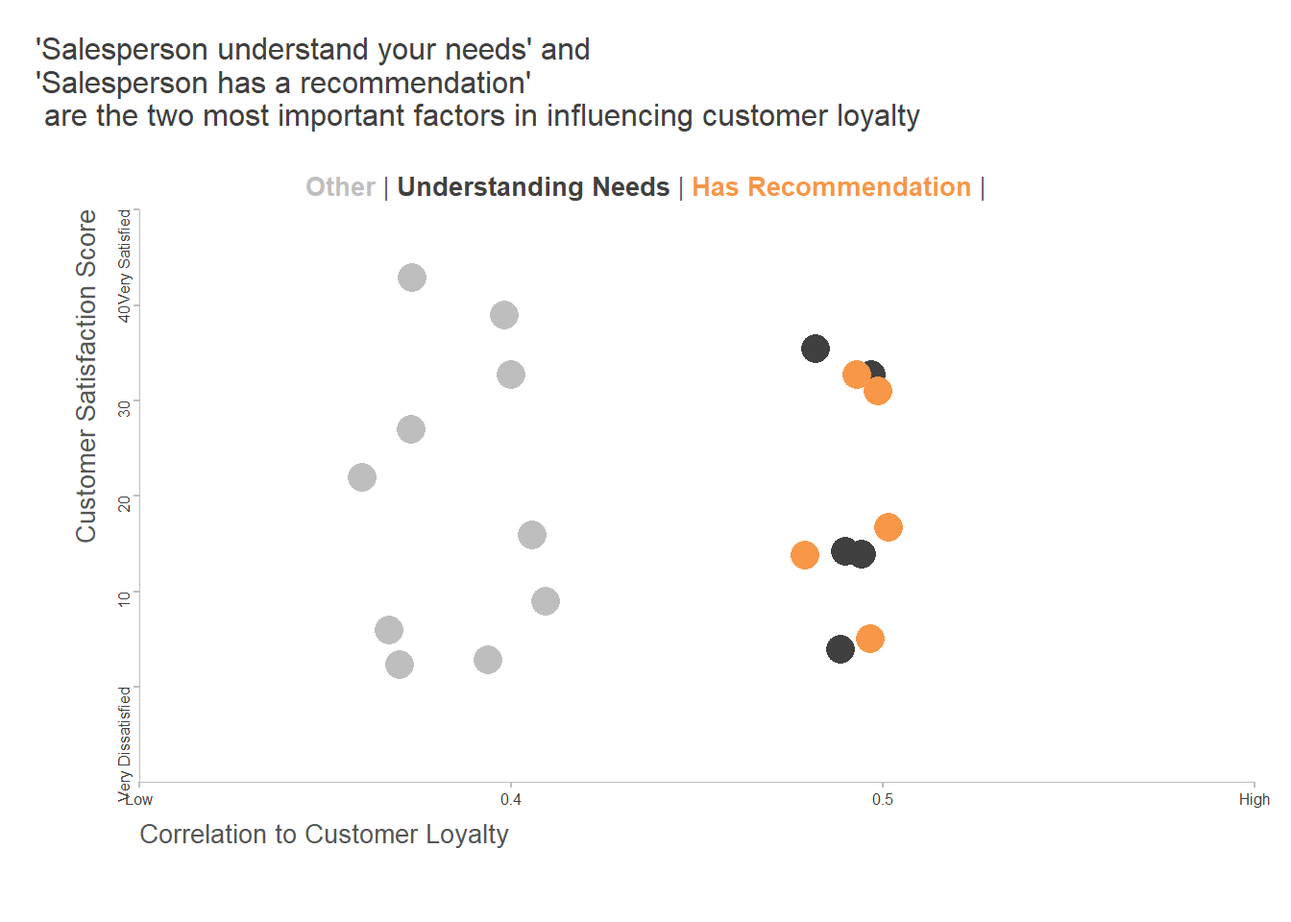
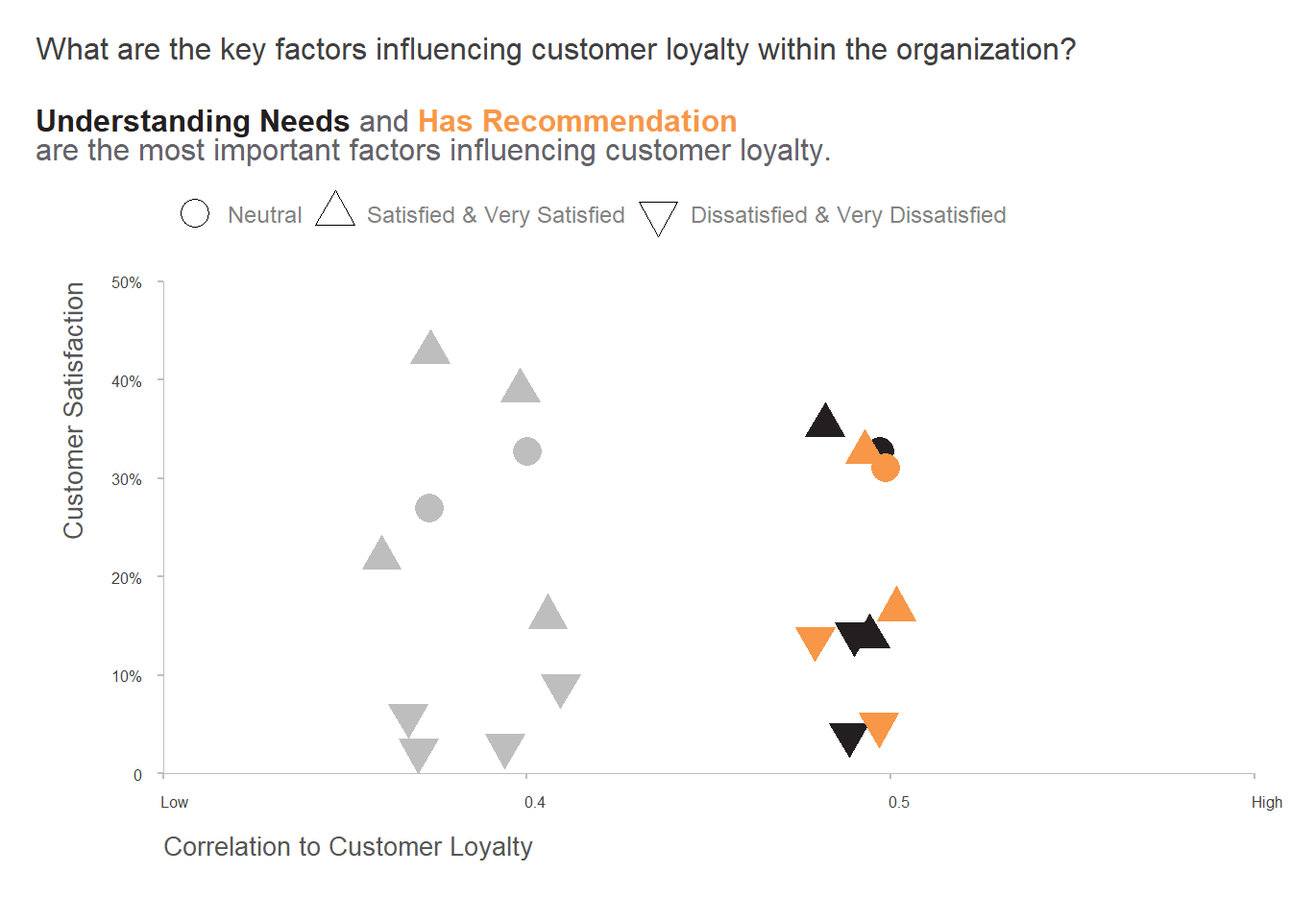
update content

diff --git a/docs/posts/2024-01-15-key-driver-analysis/index.html b/docs/posts/2024-01-15-key-driver-analysis/index.html
@@ -226,7 +226,7 @@ pre > code.sourceCode > span > a:first-child::before { text-decoration: underlin
   <li><a href="#percentage-of-responses-in-the-customer-survey-data" id="toc-percentage-of-responses-in-the-customer-survey-data" class="nav-link" data-scroll-target="#percentage-of-responses-in-the-customer-survey-data">Percentage of Responses in the Customer Survey Data</a></li>
   <li><a href="#correlation" id="toc-correlation" class="nav-link" data-scroll-target="#correlation">Correlation</a></li>
   <li><a href="#consolidating-the-percentage-and-correlation" id="toc-consolidating-the-percentage-and-correlation" class="nav-link" data-scroll-target="#consolidating-the-percentage-and-correlation">Consolidating the Percentage and Correlation</a></li>
-  <li><a href="#key-driver-analysis-output" id="toc-key-driver-analysis-output" class="nav-link" data-scroll-target="#key-driver-analysis-output">Key Driver Analysis Output</a></li>
+  <li><a href="#key-driver-analysis-findings" id="toc-key-driver-analysis-findings" class="nav-link" data-scroll-target="#key-driver-analysis-findings">Key Driver Analysis Findings</a></li>
   </ul></li>
   <li><a href="#recommendation" id="toc-recommendation" class="nav-link" data-scroll-target="#recommendation">Recommendation</a></li>
   <li><a href="#summary" id="toc-summary" class="nav-link" data-scroll-target="#summary">Summary</a></li>
@@ -578,10 +578,10 @@ For each variable, there are missing values (NAs).</p>
 <div id="tabset-3-1" class="tab-pane active" role="tabpanel" aria-labelledby="tabset-3-1-tab">
 <table class="table">
 <colgroup>
-<col style="width: 14%">
-<col style="width: 55%">
-<col style="width: 14%">
-<col style="width: 14%">
+<col style="width: 18%">
+<col style="width: 45%">
+<col style="width: 18%">
+<col style="width: 18%">
 </colgroup>
 <thead>
 <tr class="header">
@@ -647,8 +647,8 @@ For each variable, there are missing values (NAs).</p>
 <table class="table">
 <colgroup>
 <col style="width: 30%">
-<col style="width: 46%">
-<col style="width: 23%">
+<col style="width: 45%">
+<col style="width: 24%">
 </colgroup>
 <thead>
 <tr class="header">
@@ -1387,8 +1387,8 @@ For each variable, there are missing values (NAs).</p>
 </div>
 </div>
 </section>
-<section id="key-driver-analysis-output" class="level2">
-<h2 class="anchored" data-anchor-id="key-driver-analysis-output">Key Driver Analysis Output</h2>
+<section id="key-driver-analysis-findings" class="level2">
+<h2 class="anchored" data-anchor-id="key-driver-analysis-findings">Key Driver Analysis Findings</h2>
 <div class="cell">
 <details class="code-fold">
 <summary>Code</summary>
@@ -1400,55 +1400,59 @@ For each variable, there are missing values (NAs).</p>
 <span id="cb14-6"><a href="#cb14-6" aria-hidden="true" tabindex="-1"></a>  </span>
 <span id="cb14-7"><a href="#cb14-7" aria-hidden="true" tabindex="-1"></a>avg_cor <span class="ot">&lt;-</span> <span class="fu">mean</span>(kda_quadrant<span class="sc">$</span>cor_to_cust_loyalty)</span>
 <span id="cb14-8"><a href="#cb14-8" aria-hidden="true" tabindex="-1"></a>avg_score <span class="ot">&lt;-</span> <span class="fu">mean</span>(kda_quadrant<span class="sc">$</span>score)</span>
-<span id="cb14-9"><a href="#cb14-9" aria-hidden="true" tabindex="-1"></a> </span>
-<span id="cb14-10"><a href="#cb14-10" aria-hidden="true" tabindex="-1"></a> kda_quadrant <span class="ot">&lt;-</span> kda_quadrant <span class="sc">|&gt;</span></span>
-<span id="cb14-11"><a href="#cb14-11" aria-hidden="true" tabindex="-1"></a>   <span class="fu">mutate</span>(<span class="at">color =</span> <span class="fu">case_when</span>(cor_to_cust_loyalty <span class="sc">&gt;</span>avg_cor <span class="sc">&amp;</span> score <span class="sc">&lt;</span> avg_score <span class="sc">&amp;</span> survey_quest <span class="sc">==</span> <span class="st">"The salesperson understanding your needs"</span> <span class="sc">~</span> <span class="st">"Understanding Needs"</span>,</span>
-<span id="cb14-12"><a href="#cb14-12" aria-hidden="true" tabindex="-1"></a>                            cor_to_cust_loyalty <span class="sc">&gt;</span>avg_cor <span class="sc">&amp;</span> score <span class="sc">&lt;</span> avg_score <span class="sc">&amp;</span> survey_quest <span class="sc">==</span> <span class="st">"The salesperson has a recommendation"</span>  <span class="sc">~</span> <span class="st">"Has Recommendation"</span>,</span>
-<span id="cb14-13"><a href="#cb14-13" aria-hidden="true" tabindex="-1"></a>                            cor_to_cust_loyalty <span class="sc">&gt;</span>avg_cor <span class="sc">&amp;</span> score <span class="sc">&gt;</span> avg_score <span class="sc">&amp;</span> survey_quest <span class="sc">==</span> <span class="st">"The salesperson has a recommendation"</span> <span class="sc">~</span> <span class="st">"Has Recommendation"</span>,</span>
-<span id="cb14-14"><a href="#cb14-14" aria-hidden="true" tabindex="-1"></a>                             cor_to_cust_loyalty <span class="sc">&gt;</span>avg_cor <span class="sc">&amp;</span> score <span class="sc">&gt;</span> avg_score <span class="sc">&amp;</span> survey_quest <span class="sc">==</span> <span class="st">"The salesperson understanding your needs"</span> <span class="sc">~</span> <span class="st">"Understanding Needs"</span>,</span>
-<span id="cb14-15"><a href="#cb14-15" aria-hidden="true" tabindex="-1"></a>                            <span class="cn">TRUE</span> <span class="sc">~</span> <span class="st">"Other"</span>))</span>
-<span id="cb14-16"><a href="#cb14-16" aria-hidden="true" tabindex="-1"></a> </span>
-<span id="cb14-17"><a href="#cb14-17" aria-hidden="true" tabindex="-1"></a> </span>
-<span id="cb14-18"><a href="#cb14-18" aria-hidden="true" tabindex="-1"></a> category <span class="ot">=</span> <span class="fu">c</span>(<span class="st">"Understanding Needs"</span> <span class="ot">=</span> <span class="st">"#414040"</span>,</span>
-<span id="cb14-19"><a href="#cb14-19" aria-hidden="true" tabindex="-1"></a>              <span class="st">"Has Recommendation"</span> <span class="ot">=</span> <span class="st">"#F79747"</span>,</span>
-<span id="cb14-20"><a href="#cb14-20" aria-hidden="true" tabindex="-1"></a>              <span class="st">"Other"</span> <span class="ot">=</span> <span class="st">"#BFBEBE"</span>)</span>
-<span id="cb14-21"><a href="#cb14-21" aria-hidden="true" tabindex="-1"></a> </span>
-<span id="cb14-22"><a href="#cb14-22" aria-hidden="true" tabindex="-1"></a></span>
-<span id="cb14-23"><a href="#cb14-23" aria-hidden="true" tabindex="-1"></a>  formatted_subtitle <span class="ot">&lt;-</span> <span class="fu">paste0</span>(</span>
-<span id="cb14-24"><a href="#cb14-24" aria-hidden="true" tabindex="-1"></a>  <span class="st">"&lt;span style='color:"</span>, category[<span class="dv">3</span>], <span class="st">"'&gt;**"</span>, <span class="fu">names</span>(category)[<span class="dv">3</span>], <span class="st">"**&lt;/span&gt;"</span>,</span>
-<span id="cb14-25"><a href="#cb14-25" aria-hidden="true" tabindex="-1"></a>  <span class="st">" | "</span>,</span>
-<span id="cb14-26"><a href="#cb14-26" aria-hidden="true" tabindex="-1"></a>  <span class="st">"&lt;span style='color:"</span>, category[<span class="dv">1</span>], <span class="st">"'&gt;**"</span>, <span class="fu">names</span>(category)[<span class="dv">1</span>], <span class="st">"**&lt;/span&gt;"</span>,</span>
-<span id="cb14-27"><a href="#cb14-27" aria-hidden="true" tabindex="-1"></a>  <span class="st">" | "</span>,</span>
-<span id="cb14-28"><a href="#cb14-28" aria-hidden="true" tabindex="-1"></a>  <span class="st">"&lt;span style='color:"</span>, category[<span class="dv">2</span>], <span class="st">"'&gt;**"</span>, <span class="fu">names</span>(category)[<span class="dv">2</span>], <span class="st">"**&lt;/span&gt;"</span>,</span>
-<span id="cb14-29"><a href="#cb14-29" aria-hidden="true" tabindex="-1"></a>  <span class="st">" | "</span>)</span>
-<span id="cb14-30"><a href="#cb14-30" aria-hidden="true" tabindex="-1"></a> </span>
+<span id="cb14-9"><a href="#cb14-9" aria-hidden="true" tabindex="-1"></a></span>
+<span id="cb14-10"><a href="#cb14-10" aria-hidden="true" tabindex="-1"></a></span>
+<span id="cb14-11"><a href="#cb14-11" aria-hidden="true" tabindex="-1"></a> </span>
+<span id="cb14-12"><a href="#cb14-12" aria-hidden="true" tabindex="-1"></a> kda_quadrant <span class="ot">&lt;-</span> kda_quadrant <span class="sc">|&gt;</span></span>
+<span id="cb14-13"><a href="#cb14-13" aria-hidden="true" tabindex="-1"></a>   <span class="fu">mutate</span>(<span class="at">color =</span> <span class="fu">case_when</span>(cor_to_cust_loyalty <span class="sc">&gt;</span>avg_cor <span class="sc">&amp;</span> score <span class="sc">&lt;</span> avg_score <span class="sc">&amp;</span> survey_quest <span class="sc">==</span> <span class="st">"The salesperson understanding your needs"</span> <span class="sc">~</span> <span class="st">"Understanding Needs"</span>,</span>
+<span id="cb14-14"><a href="#cb14-14" aria-hidden="true" tabindex="-1"></a>                            cor_to_cust_loyalty <span class="sc">&gt;</span>avg_cor <span class="sc">&amp;</span> score <span class="sc">&lt;</span> avg_score <span class="sc">&amp;</span> survey_quest <span class="sc">==</span> <span class="st">"The salesperson has a recommendation"</span>  <span class="sc">~</span> <span class="st">"Has Recommendation"</span>,</span>
+<span id="cb14-15"><a href="#cb14-15" aria-hidden="true" tabindex="-1"></a>                            cor_to_cust_loyalty <span class="sc">&gt;</span>avg_cor <span class="sc">&amp;</span> score <span class="sc">&gt;</span> avg_score <span class="sc">&amp;</span> survey_quest <span class="sc">==</span> <span class="st">"The salesperson has a recommendation"</span> <span class="sc">~</span> <span class="st">"Has Recommendation"</span>,</span>
+<span id="cb14-16"><a href="#cb14-16" aria-hidden="true" tabindex="-1"></a>                             cor_to_cust_loyalty <span class="sc">&gt;</span>avg_cor <span class="sc">&amp;</span> score <span class="sc">&gt;</span> avg_score <span class="sc">&amp;</span> survey_quest <span class="sc">==</span> <span class="st">"The salesperson understanding your needs"</span> <span class="sc">~</span> <span class="st">"Understanding Needs"</span>,</span>
+<span id="cb14-17"><a href="#cb14-17" aria-hidden="true" tabindex="-1"></a>                            <span class="cn">TRUE</span> <span class="sc">~</span> <span class="st">"Other"</span>),</span>
+<span id="cb14-18"><a href="#cb14-18" aria-hidden="true" tabindex="-1"></a>          <span class="at">shape =</span> <span class="fu">factor</span>(<span class="fu">case_when</span>(satisfaction <span class="sc">%in%</span> <span class="fu">c</span>(<span class="st">"Satisfied"</span>, <span class="st">"Very Satisfied"</span>) <span class="sc">~</span> <span class="dv">24</span>,</span>
+<span id="cb14-19"><a href="#cb14-19" aria-hidden="true" tabindex="-1"></a>                            satisfaction <span class="sc">%in%</span> <span class="fu">c</span>(<span class="st">"Dissatisfied"</span>, <span class="st">"Very Dissatisfied"</span>) <span class="sc">~</span> <span class="dv">25</span>,</span>
+<span id="cb14-20"><a href="#cb14-20" aria-hidden="true" tabindex="-1"></a>                            <span class="cn">TRUE</span> <span class="sc">~</span> <span class="dv">21</span>)),</span>
+<span id="cb14-21"><a href="#cb14-21" aria-hidden="true" tabindex="-1"></a>          <span class="at">fill =</span> <span class="fu">factor</span>(<span class="fu">case_when</span>(color <span class="sc">==</span> <span class="st">"Understanding Needs"</span> <span class="sc">~</span> <span class="st">"#231F20"</span>, </span>
+<span id="cb14-22"><a href="#cb14-22" aria-hidden="true" tabindex="-1"></a>                                  color <span class="sc">==</span> <span class="st">"Has Recommendation"</span> <span class="sc">~</span> <span class="st">"#F79747"</span>,</span>
+<span id="cb14-23"><a href="#cb14-23" aria-hidden="true" tabindex="-1"></a>                                  <span class="cn">TRUE</span> <span class="sc">~</span> <span class="st">"Other"</span> )))</span>
+<span id="cb14-24"><a href="#cb14-24" aria-hidden="true" tabindex="-1"></a> </span>
+<span id="cb14-25"><a href="#cb14-25" aria-hidden="true" tabindex="-1"></a> </span>
+<span id="cb14-26"><a href="#cb14-26" aria-hidden="true" tabindex="-1"></a> </span>
+<span id="cb14-27"><a href="#cb14-27" aria-hidden="true" tabindex="-1"></a> category <span class="ot">=</span> <span class="fu">c</span>(<span class="st">"Understanding Needs"</span> <span class="ot">=</span> <span class="st">"#231F20"</span>,</span>
+<span id="cb14-28"><a href="#cb14-28" aria-hidden="true" tabindex="-1"></a>              <span class="st">"Has Recommendation"</span> <span class="ot">=</span> <span class="st">"#F79747"</span>,</span>
+<span id="cb14-29"><a href="#cb14-29" aria-hidden="true" tabindex="-1"></a>              <span class="st">"Other"</span> <span class="ot">=</span> <span class="st">"#BFBEBE"</span>)</span>
+<span id="cb14-30"><a href="#cb14-30" aria-hidden="true" tabindex="-1"></a></span>
 <span id="cb14-31"><a href="#cb14-31" aria-hidden="true" tabindex="-1"></a> </span>
-<span id="cb14-32"><a href="#cb14-32" aria-hidden="true" tabindex="-1"></a> <span class="fu">set.seed</span>(<span class="dv">123</span>)</span>
-<span id="cb14-33"><a href="#cb14-33" aria-hidden="true" tabindex="-1"></a></span>
-<span id="cb14-34"><a href="#cb14-34" aria-hidden="true" tabindex="-1"></a>kda_quadrant_plot <span class="ot">&lt;-</span> <span class="fu">ggplot</span>(kda_quadrant) <span class="sc">+</span> </span>
-<span id="cb14-35"><a href="#cb14-35" aria-hidden="true" tabindex="-1"></a>  <span class="fu">geom_jitter</span>(<span class="fu">aes</span>(<span class="at">x=</span> cor_to_cust_loyalty,<span class="at">y=</span> score, <span class="at">color =</span> color), <span class="at">size =</span> <span class="dv">5</span>) <span class="sc">+</span></span>
-<span id="cb14-36"><a href="#cb14-36" aria-hidden="true" tabindex="-1"></a>  <span class="fu">scale_color_manual</span>(<span class="at">values =</span> category, <span class="at">guide =</span> <span class="st">"none"</span>) <span class="sc">+</span></span>
-<span id="cb14-37"><a href="#cb14-37" aria-hidden="true" tabindex="-1"></a>  <span class="fu">scale_y_continuous</span>(<span class="at">breaks =</span> <span class="fu">seq</span>(<span class="dv">0</span>,<span class="dv">50</span>, <span class="at">by =</span> <span class="dv">10</span>), <span class="at">limits =</span> <span class="fu">c</span>(<span class="sc">-</span><span class="dv">10</span>, <span class="dv">50</span>),</span>
-<span id="cb14-38"><a href="#cb14-38" aria-hidden="true" tabindex="-1"></a>                     <span class="at">labels =</span> <span class="fu">c</span>(<span class="st">"0"</span> <span class="ot">=</span> <span class="st">"Very Dissatisfied"</span>, <span class="st">"10"</span> <span class="ot">=</span> <span class="st">"10"</span>, <span class="st">"20"</span> <span class="ot">=</span> <span class="st">"20"</span>, <span class="st">"30"</span> <span class="ot">=</span> <span class="st">"30"</span>, <span class="st">"40"</span> <span class="ot">=</span> <span class="st">"40"</span>, <span class="st">"50"</span> <span class="ot">=</span> <span class="st">"Very Satisfied"</span>),</span>
-<span id="cb14-39"><a href="#cb14-39" aria-hidden="true" tabindex="-1"></a>                     <span class="at">expand =</span> <span class="fu">c</span>(<span class="dv">0</span>,<span class="dv">0</span>)) <span class="sc">+</span></span>
-<span id="cb14-40"><a href="#cb14-40" aria-hidden="true" tabindex="-1"></a>   <span class="fu">scale_x_continuous</span>(<span class="at">breaks =</span> <span class="fu">seq</span>(<span class="fl">0.3</span>,<span class="fl">0.6</span>, <span class="at">by =</span> <span class="fl">0.1</span>), <span class="at">limits =</span> <span class="fu">c</span>(<span class="fl">0.3</span>,<span class="fl">0.6</span>),</span>
-<span id="cb14-41"><a href="#cb14-41" aria-hidden="true" tabindex="-1"></a>                      <span class="at">labels =</span> <span class="fu">c</span>(<span class="st">"0.3"</span> <span class="ot">=</span> <span class="st">"Low"</span>, <span class="st">"0.4"</span> <span class="ot">=</span> <span class="st">"0.4"</span>, <span class="st">"0.5"</span> <span class="ot">=</span> <span class="st">"0.5"</span>, <span class="st">"0.6"</span> <span class="ot">=</span> <span class="st">"High"</span>),</span>
-<span id="cb14-42"><a href="#cb14-42" aria-hidden="true" tabindex="-1"></a>                      <span class="at">expand =</span> <span class="fu">c</span>(<span class="dv">0</span>,<span class="dv">0</span>))<span class="sc">+</span></span>
-<span id="cb14-43"><a href="#cb14-43" aria-hidden="true" tabindex="-1"></a>   <span class="fu">labs</span>(<span class="at">title =</span> <span class="st">"'Salesperson understand your needs' and </span><span class="sc">\n</span><span class="st">'Salesperson has a recommendation' </span><span class="sc">\n</span><span class="st"> are the two most important factors in influencing customer loyalty </span><span class="sc">\n</span><span class="st">"</span>,</span>
-<span id="cb14-44"><a href="#cb14-44" aria-hidden="true" tabindex="-1"></a>        <span class="at">subtitle =</span> formatted_subtitle,</span>
-<span id="cb14-45"><a href="#cb14-45" aria-hidden="true" tabindex="-1"></a>        <span class="at">x =</span> <span class="st">"Correlation to Customer Loyalty"</span>,</span>
-<span id="cb14-46"><a href="#cb14-46" aria-hidden="true" tabindex="-1"></a>        <span class="at">y =</span> <span class="st">"Customer Satisfaction Score"</span>,</span>
-<span id="cb14-47"><a href="#cb14-47" aria-hidden="true" tabindex="-1"></a>        <span class="at">color =</span> <span class="st">"Category"</span>) <span class="sc">+</span></span>
-<span id="cb14-48"><a href="#cb14-48" aria-hidden="true" tabindex="-1"></a>    <span class="fu">theme</span>(<span class="at">axis.text.y =</span> <span class="fu">element_text</span>(<span class="at">angle =</span> <span class="dv">90</span>, <span class="at">size =</span> <span class="dv">6</span>, <span class="at">color =</span> GRAY2),</span>
-<span id="cb14-49"><a href="#cb14-49" aria-hidden="true" tabindex="-1"></a>          <span class="at">axis.text.x =</span> <span class="fu">element_text</span>(<span class="at">size =</span> <span class="dv">6</span>, <span class="at">color =</span> GRAY2),</span>
-<span id="cb14-50"><a href="#cb14-50" aria-hidden="true" tabindex="-1"></a>          <span class="at">axis.title.y =</span> <span class="fu">element_text</span>(<span class="at">hjust =</span> <span class="dv">1</span>, <span class="at">size =</span> <span class="dv">10</span>),</span>
-<span id="cb14-51"><a href="#cb14-51" aria-hidden="true" tabindex="-1"></a>          <span class="at">axis.title.x =</span> <span class="fu">element_text</span>(<span class="at">hjust =</span> <span class="dv">0</span>, <span class="at">size =</span> <span class="dv">10</span>),</span>
-<span id="cb14-52"><a href="#cb14-52" aria-hidden="true" tabindex="-1"></a>          <span class="at">plot.subtitle =</span> <span class="fu">element_markdown</span>(<span class="at">hjust =</span> <span class="fl">0.5</span>))</span>
-<span id="cb14-53"><a href="#cb14-53" aria-hidden="true" tabindex="-1"></a></span>
-<span id="cb14-54"><a href="#cb14-54" aria-hidden="true" tabindex="-1"></a>   </span>
-<span id="cb14-55"><a href="#cb14-55" aria-hidden="true" tabindex="-1"></a></span>
-<span id="cb14-56"><a href="#cb14-56" aria-hidden="true" tabindex="-1"></a> kda_quadrant_plot <span class="sc">|&gt;</span></span>
-<span id="cb14-57"><a href="#cb14-57" aria-hidden="true" tabindex="-1"></a>  <span class="fu">save_and_show_plot</span>(<span class="at">width =</span> <span class="fl">6.5</span>, <span class="at">height =</span> <span class="dv">4</span>, <span class="st">"FIG03.png"</span>)</span></code><button title="Copy to Clipboard" class="code-copy-button"><i class="bi"></i></button></pre></div>
+<span id="cb14-32"><a href="#cb14-32" aria-hidden="true" tabindex="-1"></a> </span>
+<span id="cb14-33"><a href="#cb14-33" aria-hidden="true" tabindex="-1"></a> <span class="fu">set.seed</span>(<span class="dv">123</span>)</span>
+<span id="cb14-34"><a href="#cb14-34" aria-hidden="true" tabindex="-1"></a></span>
+<span id="cb14-35"><a href="#cb14-35" aria-hidden="true" tabindex="-1"></a> </span>
+<span id="cb14-36"><a href="#cb14-36" aria-hidden="true" tabindex="-1"></a>kda_quadrant_plot <span class="ot">&lt;-</span> <span class="fu">ggplot</span>(kda_quadrant) <span class="sc">+</span> </span>
+<span id="cb14-37"><a href="#cb14-37" aria-hidden="true" tabindex="-1"></a>  <span class="fu">geom_jitter</span>(<span class="fu">aes</span>(<span class="at">x=</span> cor_to_cust_loyalty,<span class="at">y=</span> score, <span class="at">color =</span> color, <span class="at">shape =</span> shape, <span class="at">fill =</span> fill), <span class="at">size =</span> <span class="dv">5</span>) <span class="sc">+</span></span>
+<span id="cb14-38"><a href="#cb14-38" aria-hidden="true" tabindex="-1"></a>  <span class="fu">scale_color_manual</span>(<span class="at">values =</span> category, <span class="at">guide =</span> <span class="st">"none"</span>) <span class="sc">+</span></span>
+<span id="cb14-39"><a href="#cb14-39" aria-hidden="true" tabindex="-1"></a>  <span class="fu">scale_shape_manual</span>(<span class="at">values =</span> <span class="fu">c</span>(<span class="dv">21</span>, <span class="dv">24</span>,<span class="dv">25</span>), <span class="at">labels =</span> <span class="fu">c</span>(<span class="st">"Neutral"</span>, <span class="st">"Satisfied &amp; Very Satisfied"</span>, <span class="st">"Dissatisfied &amp; Very Dissatisfied"</span>))<span class="sc">+</span></span>
+<span id="cb14-40"><a href="#cb14-40" aria-hidden="true" tabindex="-1"></a>  <span class="fu">scale_fill_manual</span>(<span class="at">values =</span> <span class="fu">c</span>(<span class="st">"#231F20"</span>, <span class="st">"#F79747"</span>,<span class="st">"#BFBEBE"</span> ), <span class="at">guide =</span> <span class="st">"none"</span>) <span class="sc">+</span></span>
+<span id="cb14-41"><a href="#cb14-41" aria-hidden="true" tabindex="-1"></a>  <span class="fu">scale_y_continuous</span>(<span class="at">breaks =</span> <span class="fu">seq</span>(<span class="dv">0</span>,<span class="dv">50</span>, <span class="at">by =</span> <span class="dv">10</span>), <span class="at">limits =</span> <span class="fu">c</span>(<span class="dv">0</span>, <span class="dv">50</span>),</span>
+<span id="cb14-42"><a href="#cb14-42" aria-hidden="true" tabindex="-1"></a>                     <span class="at">labels =</span> <span class="fu">c</span>(<span class="st">"0"</span> <span class="ot">=</span> <span class="st">"0"</span>, <span class="st">"10"</span> <span class="ot">=</span> <span class="st">"10%"</span>, <span class="st">"20"</span> <span class="ot">=</span> <span class="st">"20%"</span>, <span class="st">"30"</span> <span class="ot">=</span> <span class="st">"30%"</span>, <span class="st">"40"</span> <span class="ot">=</span> <span class="st">"40%"</span>, <span class="st">"50"</span> <span class="ot">=</span> <span class="st">"50%"</span> ),</span>
+<span id="cb14-43"><a href="#cb14-43" aria-hidden="true" tabindex="-1"></a>                     <span class="at">expand =</span> <span class="fu">c</span>(<span class="dv">0</span>,<span class="dv">0</span>)) <span class="sc">+</span></span>
+<span id="cb14-44"><a href="#cb14-44" aria-hidden="true" tabindex="-1"></a>   <span class="fu">scale_x_continuous</span>(<span class="at">breaks =</span> <span class="fu">seq</span>(<span class="fl">0.3</span>,<span class="fl">0.6</span>, <span class="at">by =</span> <span class="fl">0.1</span>), <span class="at">limits =</span> <span class="fu">c</span>(<span class="fl">0.3</span>,<span class="fl">0.6</span>),</span>
+<span id="cb14-45"><a href="#cb14-45" aria-hidden="true" tabindex="-1"></a>                      <span class="at">labels =</span> <span class="fu">c</span>(<span class="st">"0.3"</span> <span class="ot">=</span> <span class="st">"Low"</span>, <span class="st">"0.4"</span> <span class="ot">=</span> <span class="st">"0.4"</span>, <span class="st">"0.5"</span> <span class="ot">=</span> <span class="st">"0.5"</span>, <span class="st">"0.6"</span> <span class="ot">=</span> <span class="st">"High"</span>),</span>
+<span id="cb14-46"><a href="#cb14-46" aria-hidden="true" tabindex="-1"></a>                      <span class="at">expand =</span> <span class="fu">c</span>(<span class="dv">0</span>,<span class="dv">0</span>))<span class="sc">+</span></span>
+<span id="cb14-47"><a href="#cb14-47" aria-hidden="true" tabindex="-1"></a>   <span class="fu">labs</span>(<span class="at">title =</span> <span class="st">"What are the key factors influencing customer loyalty within the organization? </span><span class="sc">\n</span><span class="st">"</span>,</span>
+<span id="cb14-48"><a href="#cb14-48" aria-hidden="true" tabindex="-1"></a>        <span class="at">subtitle =</span> glue<span class="sc">::</span><span class="fu">glue</span>(<span class="st">"&lt;span style='color:{category['Understanding Needs']}'&gt;**Understanding Needs**&lt;/span&gt; and &lt;span style='color:{category['Has Recommendation']}'&gt;**Has Recommendation**&lt;/span&gt; &lt;br&gt; are the most important factors influencing customer loyalty."</span>),</span>
+<span id="cb14-49"><a href="#cb14-49" aria-hidden="true" tabindex="-1"></a>        <span class="at">x =</span> <span class="st">"Correlation to Customer Loyalty"</span>,</span>
+<span id="cb14-50"><a href="#cb14-50" aria-hidden="true" tabindex="-1"></a>        <span class="at">y =</span> <span class="st">"Customer Satisfaction"</span>) <span class="sc">+</span></span>
+<span id="cb14-51"><a href="#cb14-51" aria-hidden="true" tabindex="-1"></a>      <span class="fu">theme</span>(<span class="at">plot.subtitle =</span> <span class="fu">element_markdown</span>(<span class="at">size =</span> <span class="dv">12</span>),</span>
+<span id="cb14-52"><a href="#cb14-52" aria-hidden="true" tabindex="-1"></a>            <span class="at">axis.text.y =</span> <span class="fu">element_text</span>(<span class="at">size =</span> <span class="dv">6</span>, <span class="at">color =</span> GRAY2, <span class="at">margin =</span> <span class="fu">margin</span>(<span class="dv">0</span>, <span class="dv">6</span>, <span class="dv">0</span>, <span class="dv">10</span>, <span class="st">"pt"</span>)),</span>
+<span id="cb14-53"><a href="#cb14-53" aria-hidden="true" tabindex="-1"></a>            <span class="at">axis.text.x =</span> <span class="fu">element_text</span>(<span class="at">size =</span> <span class="dv">6</span>, <span class="at">color =</span> GRAY2, <span class="at">margin =</span> <span class="fu">margin</span>(<span class="dv">6</span>, <span class="dv">6</span>, <span class="dv">10</span>, <span class="dv">0</span>, <span class="st">"pt"</span>), <span class="at">hjust =</span> <span class="fl">0.1</span>),</span>
+<span id="cb14-54"><a href="#cb14-54" aria-hidden="true" tabindex="-1"></a>            <span class="at">axis.title.y =</span> <span class="fu">element_text</span>(<span class="at">hjust =</span> <span class="dv">1</span>, <span class="at">size =</span> <span class="dv">10</span>, <span class="at">margin =</span> <span class="fu">margin</span>(<span class="dv">0</span>, <span class="dv">0</span>, <span class="dv">0</span>, <span class="dv">10</span>, <span class="st">"pt"</span>)),</span>
+<span id="cb14-55"><a href="#cb14-55" aria-hidden="true" tabindex="-1"></a>            <span class="at">axis.title.x =</span> <span class="fu">element_text</span>(<span class="at">hjust =</span> <span class="dv">0</span>, <span class="at">size =</span> <span class="dv">10</span>, <span class="at">margin =</span> <span class="fu">margin</span>(<span class="dv">0</span>, <span class="dv">0</span>, <span class="dv">10</span>, <span class="dv">0</span>, <span class="st">"pt"</span>)),</span>
+<span id="cb14-56"><a href="#cb14-56" aria-hidden="true" tabindex="-1"></a>          <span class="at">legend.position =</span> <span class="st">"top"</span>, <span class="at">legend.justification =</span> <span class="st">"left"</span>, <span class="at">legend.title =</span> <span class="fu">element_blank</span>(), <span class="at">legend.margin =</span> <span class="fu">margin</span>(<span class="fu">margin</span>(<span class="dv">6</span>, <span class="dv">6</span>, <span class="dv">10</span>, <span class="dv">0</span>, <span class="st">"pt"</span>)), <span class="at">legend.text =</span> <span class="fu">element_text</span>(<span class="at">size =</span> <span class="dv">9</span>, <span class="at">color =</span> GRAY6 ))</span>
+<span id="cb14-57"><a href="#cb14-57" aria-hidden="true" tabindex="-1"></a>          </span>
+<span id="cb14-58"><a href="#cb14-58" aria-hidden="true" tabindex="-1"></a></span>
+<span id="cb14-59"><a href="#cb14-59" aria-hidden="true" tabindex="-1"></a></span>
+<span id="cb14-60"><a href="#cb14-60" aria-hidden="true" tabindex="-1"></a> kda_quadrant_plot <span class="sc">|&gt;</span></span>
+<span id="cb14-61"><a href="#cb14-61" aria-hidden="true" tabindex="-1"></a>  <span class="fu">save_and_show_plot</span>(<span class="at">width =</span> <span class="fl">6.5</span>, <span class="at">height =</span> <span class="dv">4</span>, <span class="st">"FIG03.png"</span>)</span></code><button title="Copy to Clipboard" class="code-copy-button"><i class="bi"></i></button></pre></div>
 </details>
 <div class="cell-output-display">
 <div>

diff --git a/docs/posts/2023-10-11-summary-statistics-and-t-test/index.html b/docs/posts/2023-10-11-summary-statistics-and-t-test/index.html
@@ -1614,7 +1614,7 @@ Note
 <span id="cb5-9"><a href="#cb5-9" aria-hidden="true" tabindex="-1"></a>  <span class="fu">scale_x_binned</span>(<span class="at">labels =</span> percent_label_1)<span class="sc">+</span></span>
 <span id="cb5-10"><a href="#cb5-10" aria-hidden="true" tabindex="-1"></a>  <span class="fu">theme_minimal</span>(<span class="at">base_size =</span> <span class="dv">12</span>)<span class="sc">+</span></span>
 <span id="cb5-11"><a href="#cb5-11" aria-hidden="true" tabindex="-1"></a>   <span class="fu">theme</span>(<span class="at">legend.position =</span> <span class="st">"none"</span>)<span class="sc">+</span></span>
-<span id="cb5-12"><a href="#cb5-12" aria-hidden="true" tabindex="-1"></a>     <span class="fu">labs</span>(<span class="at">title =</span> <span class="st">"The most frequent values (around 300 of teams) fall into the range </span><span class="sc">\n</span><span class="st">between 0 - 5%. As the level of percentage increase </span><span class="sc">\n</span><span class="st">the frequency decrease."</span>,</span>
+<span id="cb5-12"><a href="#cb5-12" aria-hidden="true" tabindex="-1"></a>     <span class="fu">labs</span>(<span class="at">title =</span> <span class="st">"The most frequent values (around 300 of teams) fall into the range </span><span class="sc">\n</span><span class="st">between 0 - 5%. As the level of percentage increases </span><span class="sc">\n</span><span class="st">the frequency decreases."</span>,</span>
 <span id="cb5-13"><a href="#cb5-13" aria-hidden="true" tabindex="-1"></a>          <span class="at">subtitle =</span> <span class="st">"Distribution of BAME employees"</span>,</span>
 <span id="cb5-14"><a href="#cb5-14" aria-hidden="true" tabindex="-1"></a>          <span class="at">x=</span> <span class="st">"BAME employees"</span>,</span>
 <span id="cb5-15"><a href="#cb5-15" aria-hidden="true" tabindex="-1"></a>          <span class="at">y=</span> <span class="st">"Count"</span>)</span></code><button title="Copy to Clipboard" class="code-copy-button"><i class="bi"></i></button></pre></div>

diff --git a/docs/index.html b/docs/index.html
@@ -227,7 +227,7 @@ ul.task-list li input[type="checkbox"] {
 
 <div class="quarto-listing quarto-listing-container-grid" id="listing-blog">
 <div class="list grid quarto-listing-cols-3">
-<div class="g-col-1" data-index="0" data-categories="key driver analysis,data cleaning,data visualization" data-listing-date-sort="1705269600000" data-listing-file-modified-sort="1705483683898" data-listing-date-modified-sort="NaN" data-listing-reading-time-sort="21" data-listing-word-count-sort="4092">
+<div class="g-col-1" data-index="0" data-categories="key driver analysis,data cleaning,data visualization" data-listing-date-sort="1705269600000" data-listing-file-modified-sort="1705769805478" data-listing-date-modified-sort="NaN" data-listing-reading-time-sort="22" data-listing-word-count-sort="4317">
 <a href="./posts/2024-01-15-key-driver-analysis/index.html" class="quarto-grid-link">
 <div class="quarto-grid-item card h-100 card-left">
 <p class="card-img-top">
@@ -274,7 +274,7 @@ data visualization
 </div>
 </a>
 </div>
-<div class="g-col-1" data-index="2" data-categories="summary statistics,independent samples t-test,quantitative analysis" data-listing-date-sort="1696971600000" data-listing-file-modified-sort="1704441374603" data-listing-date-modified-sort="NaN" data-listing-reading-time-sort="10" data-listing-word-count-sort="1960">
+<div class="g-col-1" data-index="2" data-categories="summary statistics,independent samples t-test,quantitative analysis" data-listing-date-sort="1696971600000" data-listing-file-modified-sort="1705572170662" data-listing-date-modified-sort="NaN" data-listing-reading-time-sort="10" data-listing-word-count-sort="1960">
 <a href="./posts/2023-10-11-summary-statistics-and-t-test/index.html" class="quarto-grid-link">
 <div class="quarto-grid-item card h-100 card-left">
 <p class="card-img-top">

diff --git a/docs/posts.html b/docs/posts.html
@@ -234,7 +234,7 @@ ul.task-list li input[type="checkbox"] {
     </div>
 </div>
 <div class="list grid quarto-listing-cols-3">
-<div class="g-col-1" data-index="0" data-categories="key driver analysis,data cleaning,data visualization" data-listing-date-sort="1705269600000" data-listing-file-modified-sort="1705483683898" data-listing-date-modified-sort="NaN" data-listing-reading-time-sort="21" data-listing-word-count-sort="4092">
+<div class="g-col-1" data-index="0" data-categories="key driver analysis,data cleaning,data visualization" data-listing-date-sort="1705269600000" data-listing-file-modified-sort="1705769805478" data-listing-date-modified-sort="NaN" data-listing-reading-time-sort="22" data-listing-word-count-sort="4317">
 <a href="./posts/2024-01-15-key-driver-analysis/index.html" class="quarto-grid-link">
 <div class="quarto-grid-item card h-100 card-left">
 <p class="card-img-top">
@@ -297,7 +297,7 @@ Dec 5, 2023
 </div>
 </a>
 </div>
-<div class="g-col-1" data-index="2" data-categories="summary statistics,independent samples t-test,quantitative analysis" data-listing-date-sort="1696971600000" data-listing-file-modified-sort="1704441374603" data-listing-date-modified-sort="NaN" data-listing-reading-time-sort="10" data-listing-word-count-sort="1960">
+<div class="g-col-1" data-index="2" data-categories="summary statistics,independent samples t-test,quantitative analysis" data-listing-date-sort="1696971600000" data-listing-file-modified-sort="1705572170662" data-listing-date-modified-sort="NaN" data-listing-reading-time-sort="10" data-listing-word-count-sort="1960">
 <a href="./posts/2023-10-11-summary-statistics-and-t-test/index.html" class="quarto-grid-link">
 <div class="quarto-grid-item card h-100 card-left">
 <p class="card-img-top">

diff --git a/posts/2023-10-11-summary-statistics-and-t-test/theme.scss b/posts/2023-10-11-summary-statistics-and-t-test/theme.scss
@@ -1,0 +1,79 @@
+/*-- scss:defaults --*/
+
+// fonts
+@import 'https://fonts.googleapis.com/css2?family=Atkinson+Hyperlegible&display=swap';
+
+$font-family-sans-serif: "Atkinson Hyperlegible", sans-serif;
+$presentation-heading-color: #00589b;
+$presentation-title-slide-text-align: "left";
+$presentation-subtitle-slide-text-align: "left";
+$code-block-font-size: 0.5em;
+$code-color: #5f5f5f;
+$presentation-h2-font-size: 1.2em;
+
+/*-- scss:rules --*/
+
+.reveal .custom-title {
+  position: absolute;
+  color: #00589b;
+  font-size: 1.5em;
+  text-align: right;
+  right: 20px;
+  top: -200px;
+}
+
+.reveal .custom-author {
+  position: absolute;
+  font-size: 1.4em;
+  text-align: left;
+  right: 20px;
+  top: 300px;
+}
+
+.reveal .custom-twitter a {
+  position: absolute;
+  color: #1DA1F2;
+  font-size: 1.3em;
+  text-align: right;
+  right: 20px;
+  top: 470px;
+}
+
+.reveal .custom-url a {
+  position: absolute;
+  color: #0870c0;
+  font-size: 1.5em;
+  text-align: right;
+  right: 20px;
+  top: 570px;
+}
+
+details>summary {
+  font-size: 0.5em;
+}
+
+.small {
+  font-size: 0.75em;
+}
+
+.reveal .slide .in-out {
+  margin-top: 0.5em;
+  margin-bottom: 0.5em;
+  padding-top: 0.1em;
+  padding-bottom: 0.1em;
+  padding-left: 1em;
+  background: #E8E8E8;
+  font-family: $font-family-monospace;
+  font-size: 0.6em;
+}
+
+
+.reveal .slide .goal {
+  margin-top: 0.5em;
+  margin-bottom: 0.5em;
+  padding-top: 0.1em;
+  padding-bottom: 0.1em;
+  padding-left: 1em;
+  background: #ccddeb;
+}
+
